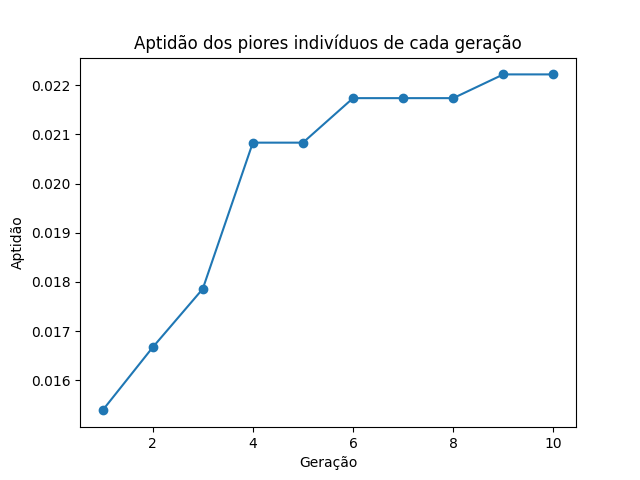
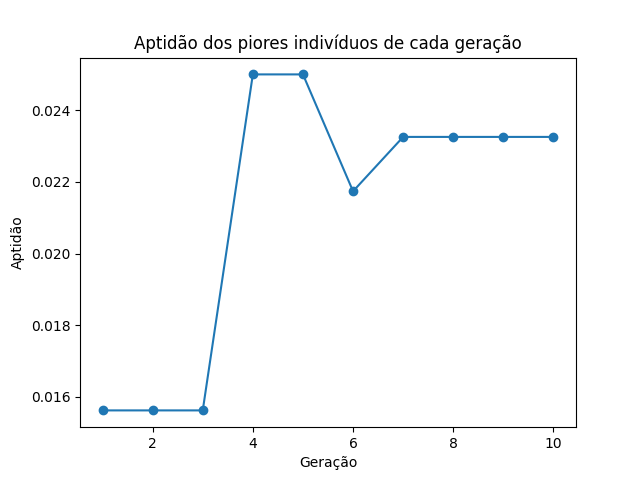
Trying to implement the teacher's preference list.

diff --git a/models/evaluation.py b/models/evaluation.py
@@ -95,15 +95,30 @@ class Evaluation:
                             empty_lessons_first_time, empty_lessons_second_time, lessons = self.get_priorities(period_x)
 
                             # Aplicando prioridades
-                            self.apply_priorities(period_x, empty_lessons_first_time, empty_lessons_second_time, lessons,
+                            self.apply_priorities(period_x, empty_lessons_first_time, empty_lessons_second_time,
+                                                  lessons,
                                                   (column, row))
                         else:
                             # Definindo listas de prioridades considerando period_y
                             empty_lessons_first_time, empty_lessons_second_time, lessons = self.get_priorities(period_y)
 
                             # Aplicando prioridades
-                            self.apply_priorities(period_y, empty_lessons_first_time, empty_lessons_second_time, lessons,
+                            self.apply_priorities(period_y, empty_lessons_first_time, empty_lessons_second_time,
+                                                  lessons,
                                                   (column, row))
+
+    def fix_teachers_preferences(self, period):
+        for day in range(WEEK_SIZE):
+            lessons_of_day = self.individual[period][day]
+            for index_lesson in range(len(lessons_of_day)):
+                if lessons_of_day[index_lesson] is not None:
+                    teacher = lessons_of_day[index_lesson].teacher
+                    if not self.verify_availability(teacher.availabilities, day):
+                        day_of_week = teacher.availabilities[random.randrange(len(teacher.availabilities))].day_of_week
+                        time_of_day = random.randrange(LESSONS_PER_DAY)
+                        aux = self.individual[period][day_of_week][time_of_day]
+                        self.individual[period][day_of_week][time_of_day] = self.individual[period][day][index_lesson]
+                        self.individual[period][day][index_lesson] = aux
 
     def apply_priorities(self, period, priorities_1, priorities_2, priorities_3, indexes):
         """
@@ -269,3 +284,12 @@ class Evaluation:
                         total += 1
 
         return total
+
+    @staticmethod
+    def verify_availability(availabilities, day):
+        result = False
+        for availability in availabilities:
+            if availability.day_of_week == day:
+                result = True
+                break
+        return result

diff --git a/algorithm/genetic_algorithm.py b/algorithm/genetic_algorithm.py
@@ -52,6 +52,8 @@ class GeneticAlgorithm:
             # Corrigindo aulas sequenciais no mesmo dia de uma disciplina
             child.fix_lessons_same_day(period)
 
+            child.fix_teachers_preferences(period)
+
         for index_x, index_y in itertools.combinations(range(TOTAL_PERIODS), 2):
             # Corrigindo choques de horários entre períodos
             child.fix_timing_clashes(child.individual[index_x], child.individual[index_y])

diff --git a/settings.py b/settings.py
@@ -1,7 +1,7 @@
 from sqlalchemy.ext.declarative import declarative_base
 
 
-SQLALCHEMY_URI = "mysql://root:password@localhost:3306/timetable?charset=utf8"
+SQLALCHEMY_URI = "mysql://root@localhost:3306/timetable?charset=utf8"
 POPULATION_SIZE = 100
 GENERATIONS_NUMBER = 10
 TOTAL_PERIODS = 2
